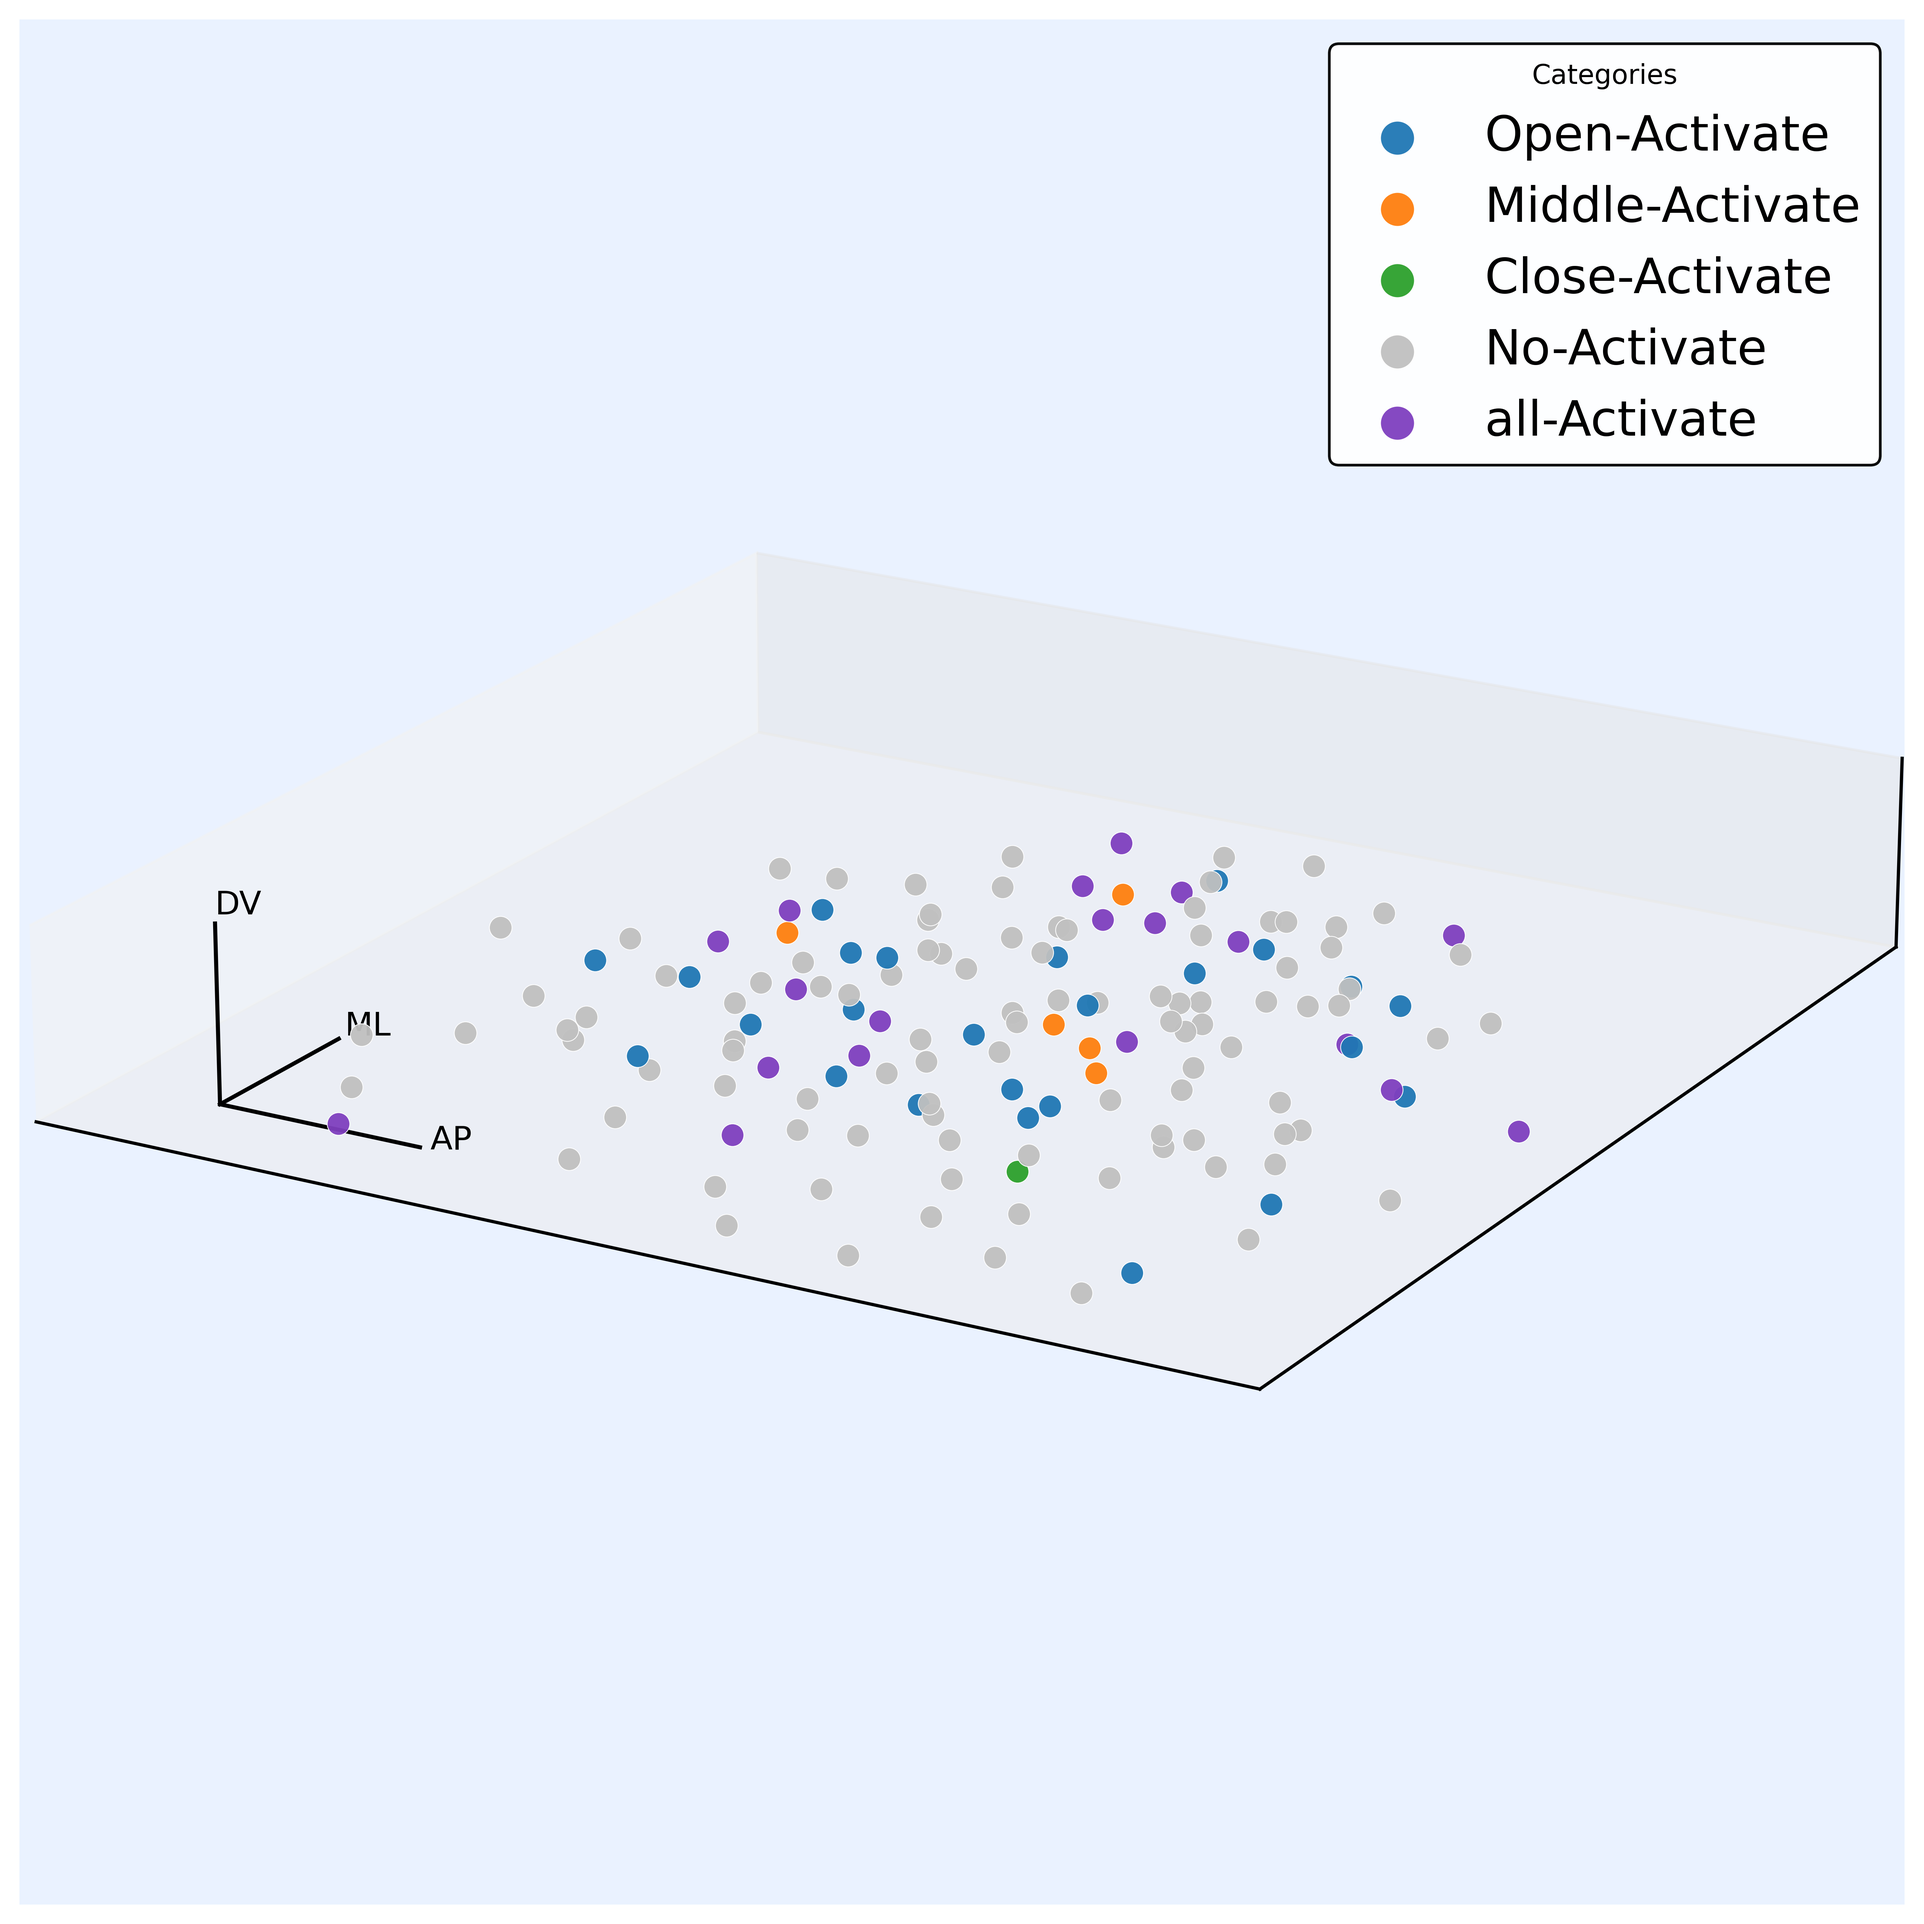
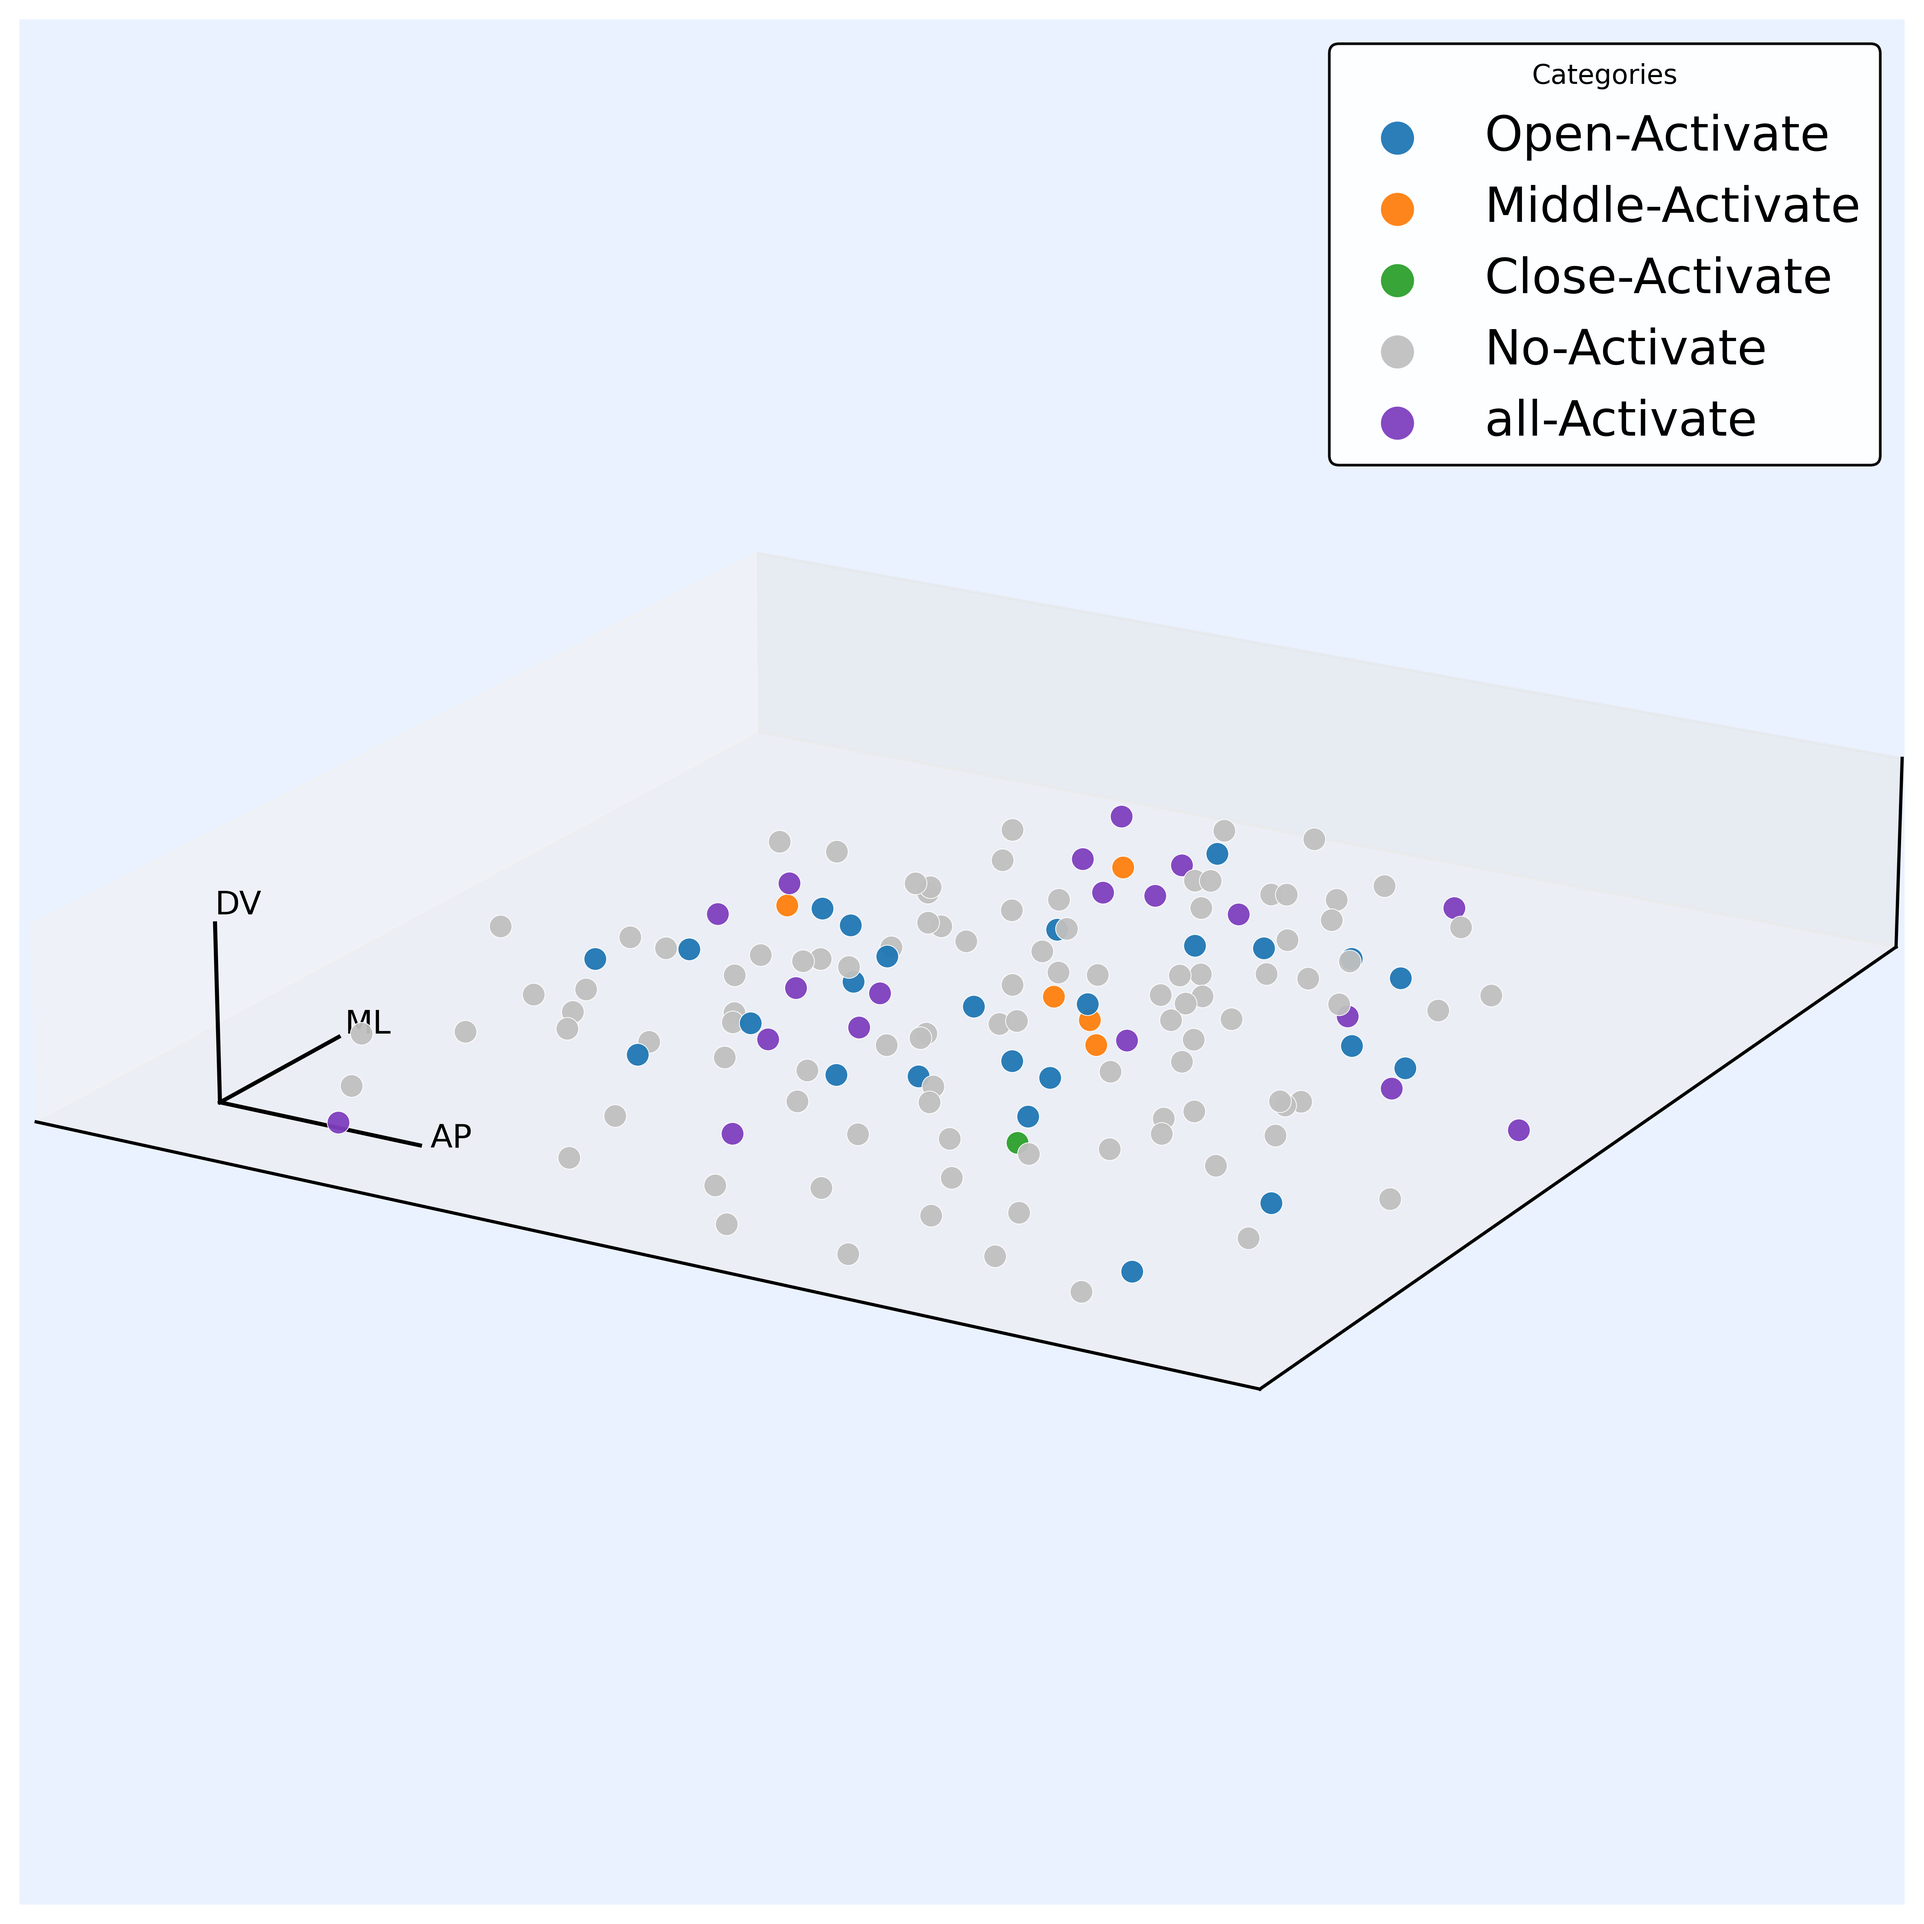
1

diff --git a/principal_neuron/src/plotting_utils.py b/principal_neuron/src/plotting_utils.py
@@ -480,6 +480,7 @@ def plot_3d_activation_categories_combined(dataset_keys, dataset_centers, path_c
     z_mean = float(np.mean(z_centers)) if len(z_centers) > 0 else 0.0
     legend_done = set()
     global_counts = { 'Open-Activate':0, 'Middle-Activate':0, 'Close-Activate':0, 'No-Activate':0, 'all-Activate':0 }
+    point_records = []
     xs_all, ys_all, zs_all = [], [], []
     for key in dataset_keys:
         eff_path = path_config.DATASETS.get(key, {}).get('effect')
@@ -514,7 +515,7 @@ def plot_3d_activation_categories_combined(dataset_keys, dataset_centers, path_c
                 df_pos = None
         center = dataset_centers.get(key, (0.0, 0.0, 0.0))
         cx, cy, cz = center
-        cz_scaled = (cz - z_mean) * z_scale + z_mean
+        cz_used = cz
         if df_pos is not None and not df_pos.empty:
             df_pos['Category'] = df_pos['NeuronID'].map(lambda n: cats.get(n, 'No-Activate'))
             # update counts
@@ -527,10 +528,24 @@ def plot_3d_activation_categories_combined(dataset_keys, dataset_centers, path_c
                 if not sub.empty:
                     xs = cx + (sub['x'].values - 0.5) * scale_xy_mm
                     ys = cy + (sub['y'].values - 0.5) * scale_xy_mm
-                    zs = np.full_like(xs, cz_scaled)
+                    zs = np.full_like(xs, cz_used)
                     xs_all.append(xs)
                     ys_all.append(ys)
                     zs_all.append(zs)
+                    ids = sub['NeuronID'].values
+                    x_rel = sub['x'].values
+                    y_rel = sub['y'].values
+                    for i in range(len(sub)):
+                        point_records.append({
+                            'Dataset': key,
+                            'NeuronID': int(ids[i]),
+                            'Category': cat,
+                            'x_mm': float(xs[i]),
+                            'y_mm': float(ys[i]),
+                            'z_mm': float(zs[i]),
+                            'x_rel': float(x_rel[i]),
+                            'y_rel': float(y_rel[i])
+                        })
                     label = cat if cat not in legend_done else None
                     ax.scatter(xs, ys, zs, s=marker_size, c=color, alpha=alpha,
                                edgecolors='white', linewidths=0.3, label=label)
@@ -587,6 +602,14 @@ def plot_3d_activation_categories_combined(dataset_keys, dataset_centers, path_c
         print("各类别神经元数量 (合并三个数据集):")
         for k in ['Open-Activate','Middle-Activate','Close-Activate','all-Activate','No-Activate']:
             print(f"  {k}: {global_counts.get(k,0)}")
+        if point_records:
+            csv_path = os.path.splitext(output_path)[0] + '_points.csv'
+            try:
+                df_points = pd.DataFrame(point_records)
+                df_points.to_csv(csv_path, index=False)
+                print(f"3D分类分布坐标CSV已保存到 {csv_path}")
+            except Exception as e:
+                print(f"保存3D分类分布坐标CSV失败: {e}")
     return fig, ax
 
 if __name__ == '__main__':
